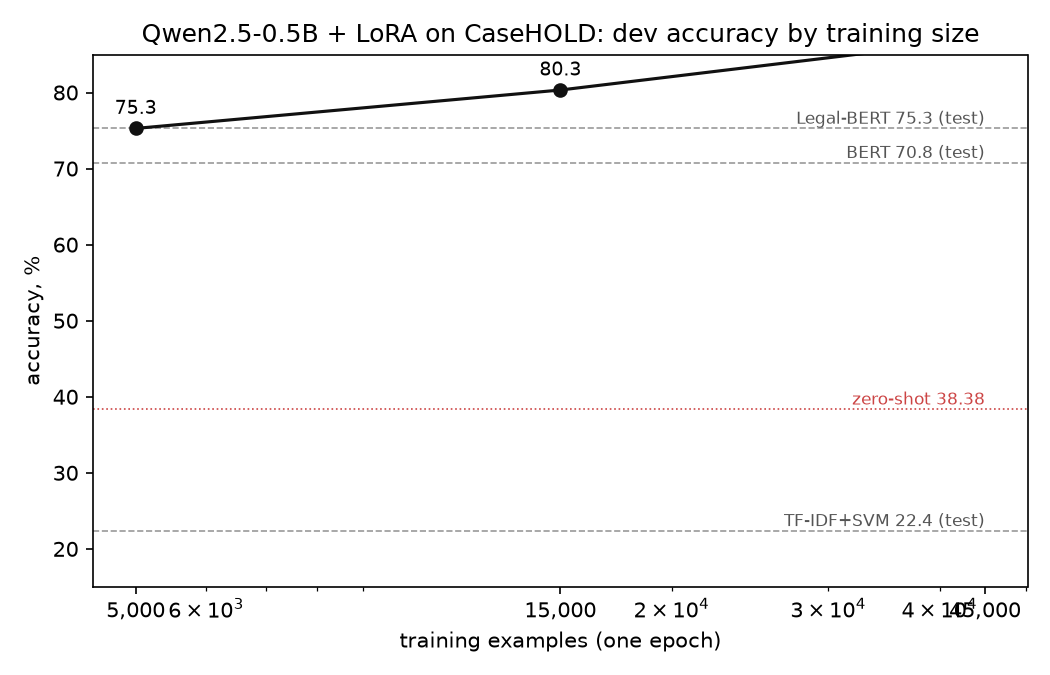
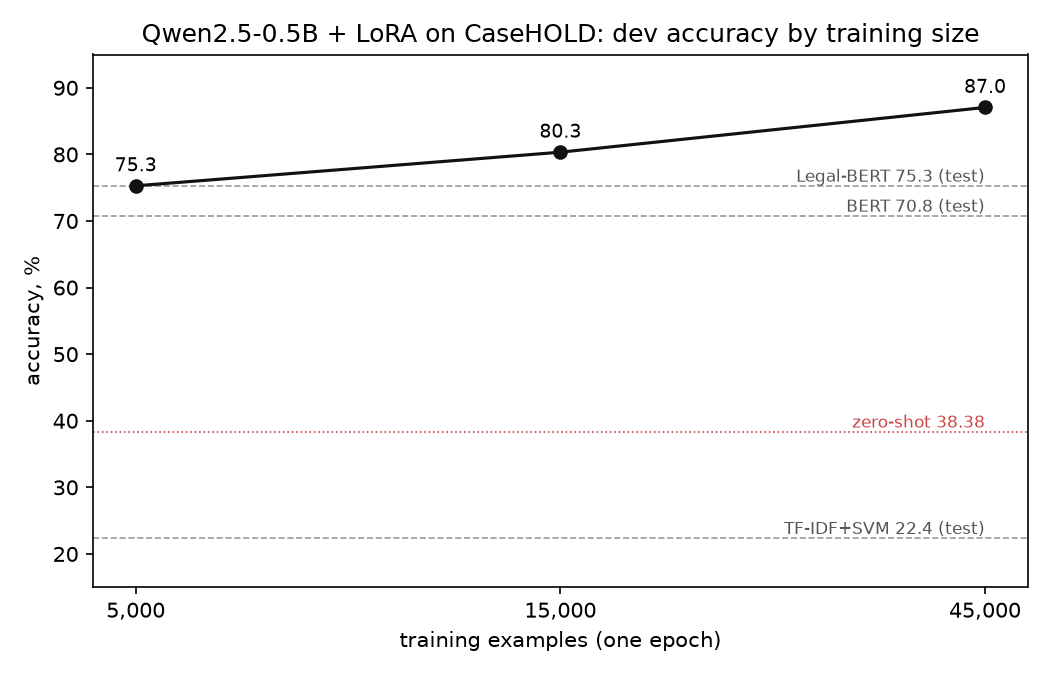
Curve: y-axis to 95 so the 45k point shows, minor ticks off

diff --git a/curve.py b/curve.py
@@ -37,10 +37,11 @@ for r in runs:
     plt.annotate(f"{r['dev_acc']:.1f}", (r["n_train"], r["dev_acc"]), textcoords="offset points", xytext=(0, 7), ha="center", fontsize=9)
 plt.xscale("log")
 plt.xticks([r["n_train"] for r in runs], [f"{r['n_train']:,}" for r in runs])
+plt.minorticks_off()
 plt.xlabel("training examples (one epoch)")
 plt.ylabel("accuracy, %")
 plt.title(f"{args.model.split('/')[-1]} + LoRA on CaseHOLD: dev accuracy by training size")
-plt.ylim(15, 85)
+plt.ylim(15, 95)
 plt.tight_layout()
 plt.savefig("plots/curve.png", dpi=150)
 print("wrote plots/curve.png")
